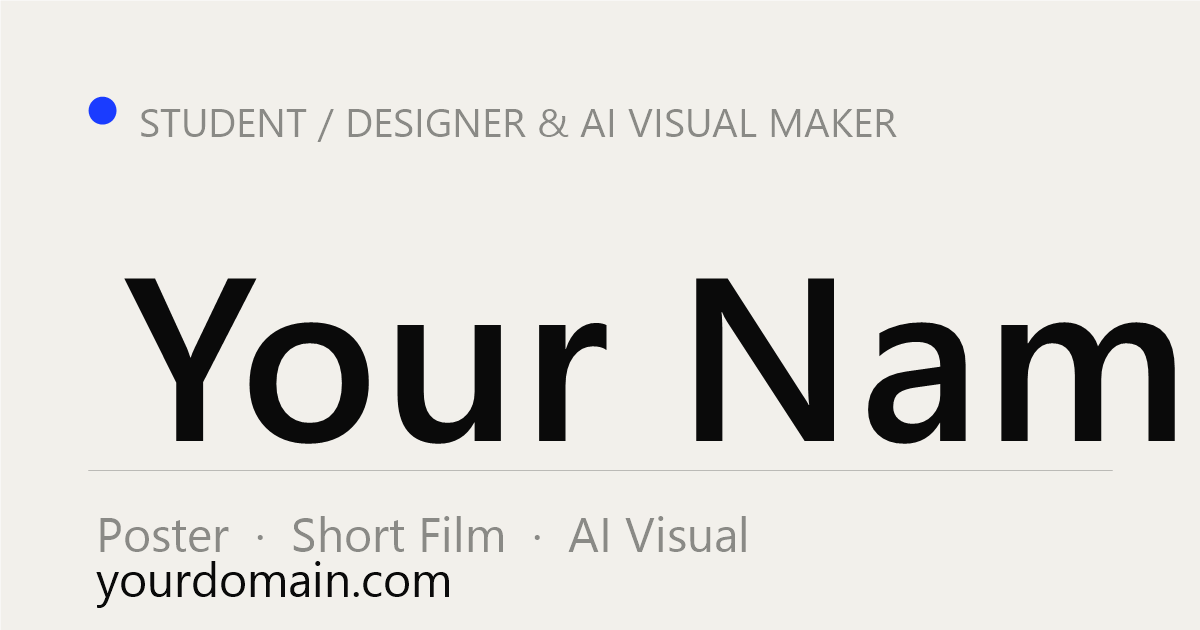
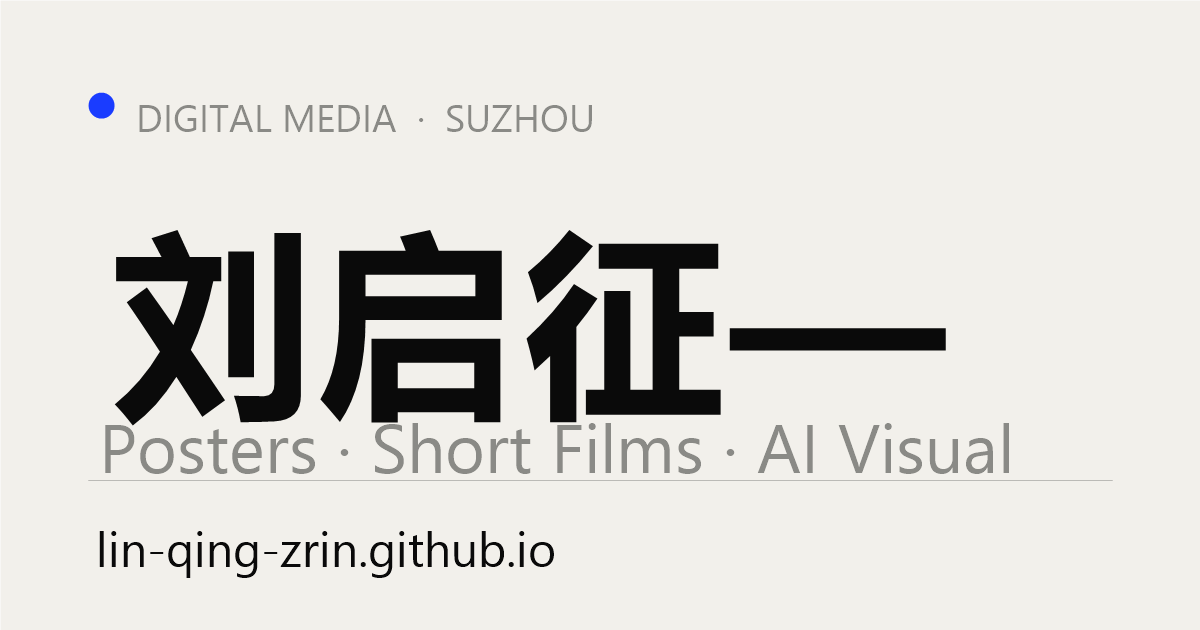
feat: personalise site, smooth crossfade preview, ratio-aware hover frame

Changed region(s): [[0.0617, 0.3619, 0.9867, 0.754], [0.0617, 0.8143, 0.6475, 0.9651], [0.0617, 0.1508, 0.74, 0.2413]]

diff --git a/src/styles/global.css b/src/styles/global.css
@@ -296,20 +296,41 @@ html.is-ready .line-mask > span {
   font-size: clamp(26px, 4.2vw, 58px);
   line-height: 1;
   letter-spacing: -0.03em;
-  transition: transform 0.6s var(--ease), color 0.4s var(--ease);
+  transition: transform 0.65s var(--ease);
+}
+/* hover：只做位移 + 一条从左侧长出来的细线，不换颜色 */
+.work-row::after {
+  content: "";
+  position: absolute;
+  left: 0;
+  right: 0;
+  bottom: -1px;
+  height: 1px;
+  background: var(--ink);
+  transform: scaleX(0);
+  transform-origin: left;
+  transition: transform 0.7s var(--ease);
+}
+.work-row:hover::after,
+.work-row:focus-visible::after {
+  transform: scaleX(1);
 }
 .work-row__cat,
 .work-row__year {
   font-size: 13px;
   color: var(--gray);
   white-space: nowrap;
+  transition: color 0.45s var(--ease);
 }
 .work-row__year {
   text-align: right;
 }
 .work-row:hover .work-row__title {
-  transform: translateX(12px);
-  color: var(--blue);
+  transform: translateX(18px);
+}
+.work-row:hover .work-row__cat,
+.work-row:hover .work-row__year {
+  color: var(--ink-2);
 }
 .work-row:focus-visible {
   outline: 2px solid var(--blue);
@@ -327,21 +348,44 @@ html.is-ready .line-mask > span {
   overflow: hidden;
   pointer-events: none;
   opacity: 0;
-  transform: translate3d(0, 0, 0) scale(0.9);
-  transition: opacity 0.35s var(--ease), scale 0.6s var(--ease);
-  scale: 0.9;
+  transform: translate3d(0, 0, 0);
+  transition: opacity 0.4s var(--ease);
   will-change: transform, opacity;
   background: var(--bg-deep);
+  outline: 1px solid rgba(10, 10, 10, 0.07);
+  transition:
+    opacity 0.4s var(--ease),
+    width 0.55s var(--ease),
+    height 0.55s var(--ease);
+}
+/* 预览框跟着作品的真实比例走，图不再被留白框住 */
+.preview[data-ratio='16:10'] {
+  width: 356px;
+  height: 222px;
+}
+.preview[data-ratio='9:16'] {
+  width: 238px;
+  height: 423px;
+}
+.preview[data-ratio='4:5'] {
+  width: 300px;
+  height: 375px;
 }
 .preview.is-on {
   opacity: 1;
-  scale: 1;
 }
-.preview img {
+.preview__img {
+  position: absolute;
+  inset: 0;
   width: 100%;
   height: 100%;
   object-fit: contain;
-  background: var(--bg-deep);
+  opacity: 0;
+  transition: opacity 0.42s var(--ease);
+  will-change: opacity;
+}
+.preview__img.is-front {
+  opacity: 1;
 }
 @media (max-width: 767px) {
   .preview {
@@ -520,16 +564,21 @@ html.is-ready .line-mask > span {
   transition: width 0.5s var(--ease), height 0.5s var(--ease),
     margin 0.5s var(--ease), opacity 0.3s var(--ease);
   will-change: transform;
+  opacity: 0;
+}
+.cursor.is-live {
+  opacity: 1;
 }
 .cursor.is-hover {
-  width: 64px;
-  height: 64px;
-  margin: -32px 0 0 -32px;
+  width: 34px;
+  height: 34px;
+  margin: -17px 0 0 -17px;
 }
 .cursor.is-label {
-  width: 82px;
-  height: 82px;
-  margin: -41px 0 0 -41px;
+  width: 88px;
+  height: 88px;
+  margin: -44px 0 0 -44px;
+  font-size: 11px;
 }
 @media (hover: none), (max-width: 767px) {
   .cursor {

diff --git a/README.md b/README.md
@@ -101,13 +101,25 @@ git push -u origin main
 
 ## 5. 换成你自己的信息（checklist）
 
-- [ ] `src/components/Header.astro` — 左上角名字
-- [ ] `src/pages/index.astro` — H1 名字、两段自我介绍、eyebrow
-- [ ] `src/pages/about.astro` — 【学校】【专业】【城市】
-- [ ] `src/pages/contact.astro` + `src/components/Footer.astro` — 邮箱、电话、社交链接
-- [ ] `astro.config.mjs` — `site` 改成你的线上地址
-- [ ] `public/images/og.png` — 分享卡片图
-- [ ] `src/styles/global.css` 的 `:root` — 想换强调色改 `--blue`
+- [x] `src/components/Header.astro` — 左上角名字（刘启征）
+- [x] `src/pages/index.astro` — H1 名字、两段自我介绍、eyebrow
+- [x] `src/pages/about.astro` — 学校 / 专业 / 城市（苏州健雄职业技术学院 · Digital Media Technology · 苏州）
+- [x] `src/pages/contact.astro` + `src/components/Footer.astro` — 邮箱 Linqingzhu0420@gmail.com、抖音 39490590044、GitHub Lin-Qing-Zrin
+- [x] `astro.config.mjs` — `site: https://lin-qing-zrin.github.io`（仓库名必须是 `Lin-Qing-Zrin.github.io`）
+- [x] `public/images/og.png` — 分享卡片图（已用中文名重做）
+- [ ] `src/styles/global.css` 的 `:root` — 想换强调色改 `--blue`（现在只在 hover 用蓝色）
+- [ ] **4 个作品仍是占位图**（`poster-01.svg` / `douyin.svg` / `ai-visual.svg` / `short-film.svg`），换成真图后才算完成
+
+### 时钟
+
+页脚 "Local time" 固定按 **Asia/Shanghai** 显示（`src/layouts/Base.astro` 的 `initClock`），
+访客在哪个国家看到的都是北京时间，不会变成他自己的。
+
+### 预览框比例
+
+作品行 hover 时跟随鼠标的预览框会按 frontmatter 里的 `ratio` 自动换尺寸：
+`4:5` → 300×375 / `16:10` → 356×222 / `9:16` → 238×423。
+新增比例时在 `global.css` 里补一条 `.preview[data-ratio='…']` 即可，JS 不用改。
 
 ## 6. 设计约定（别破坏它）
 
